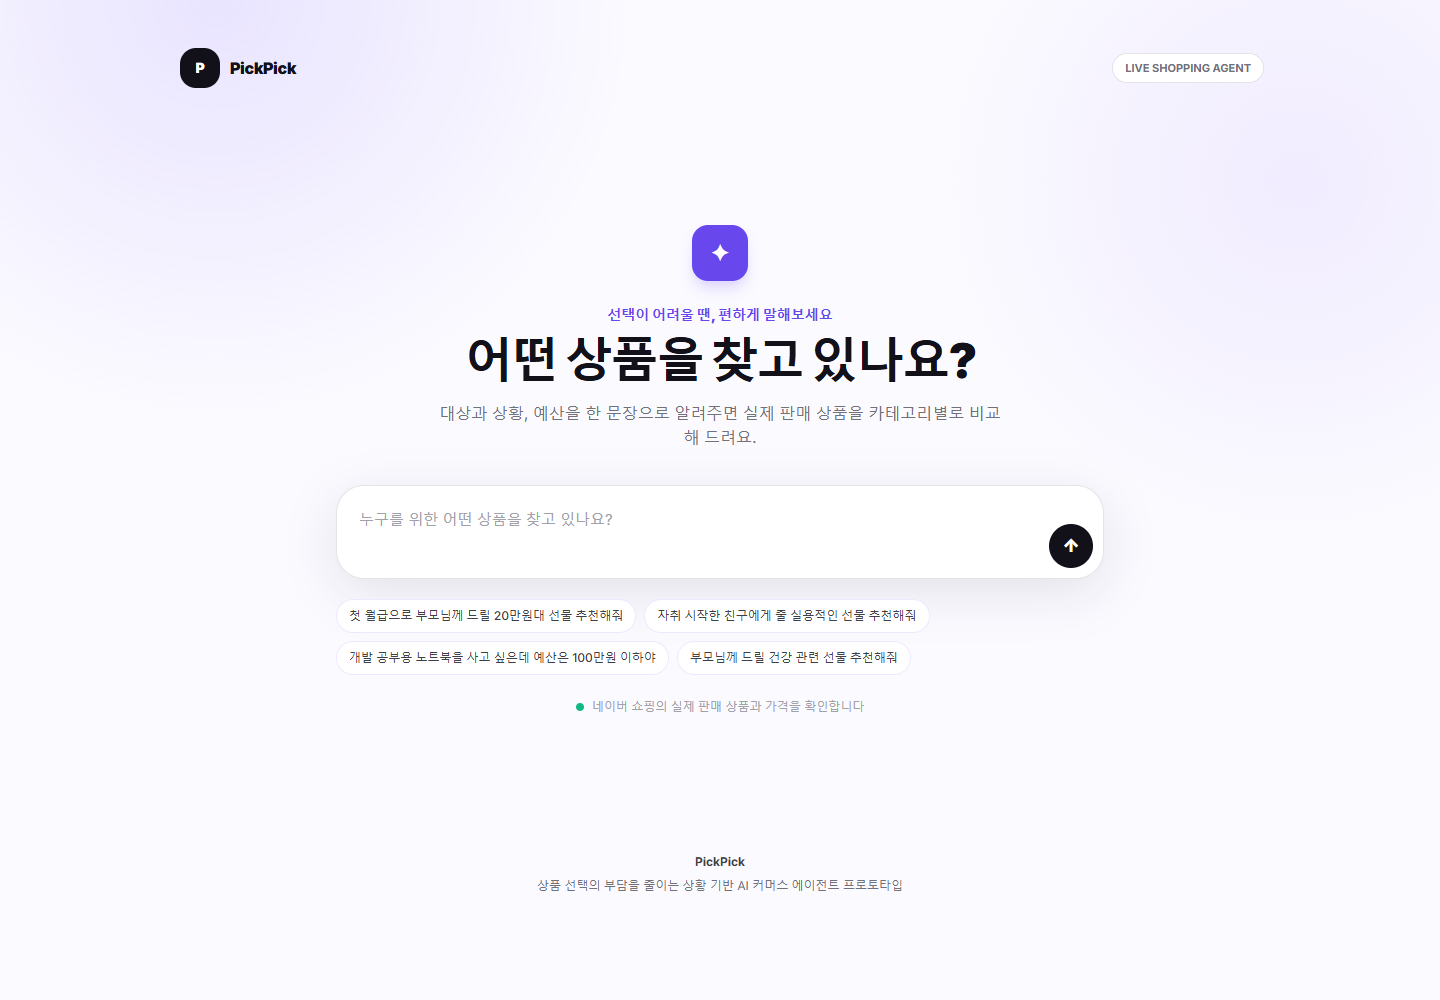
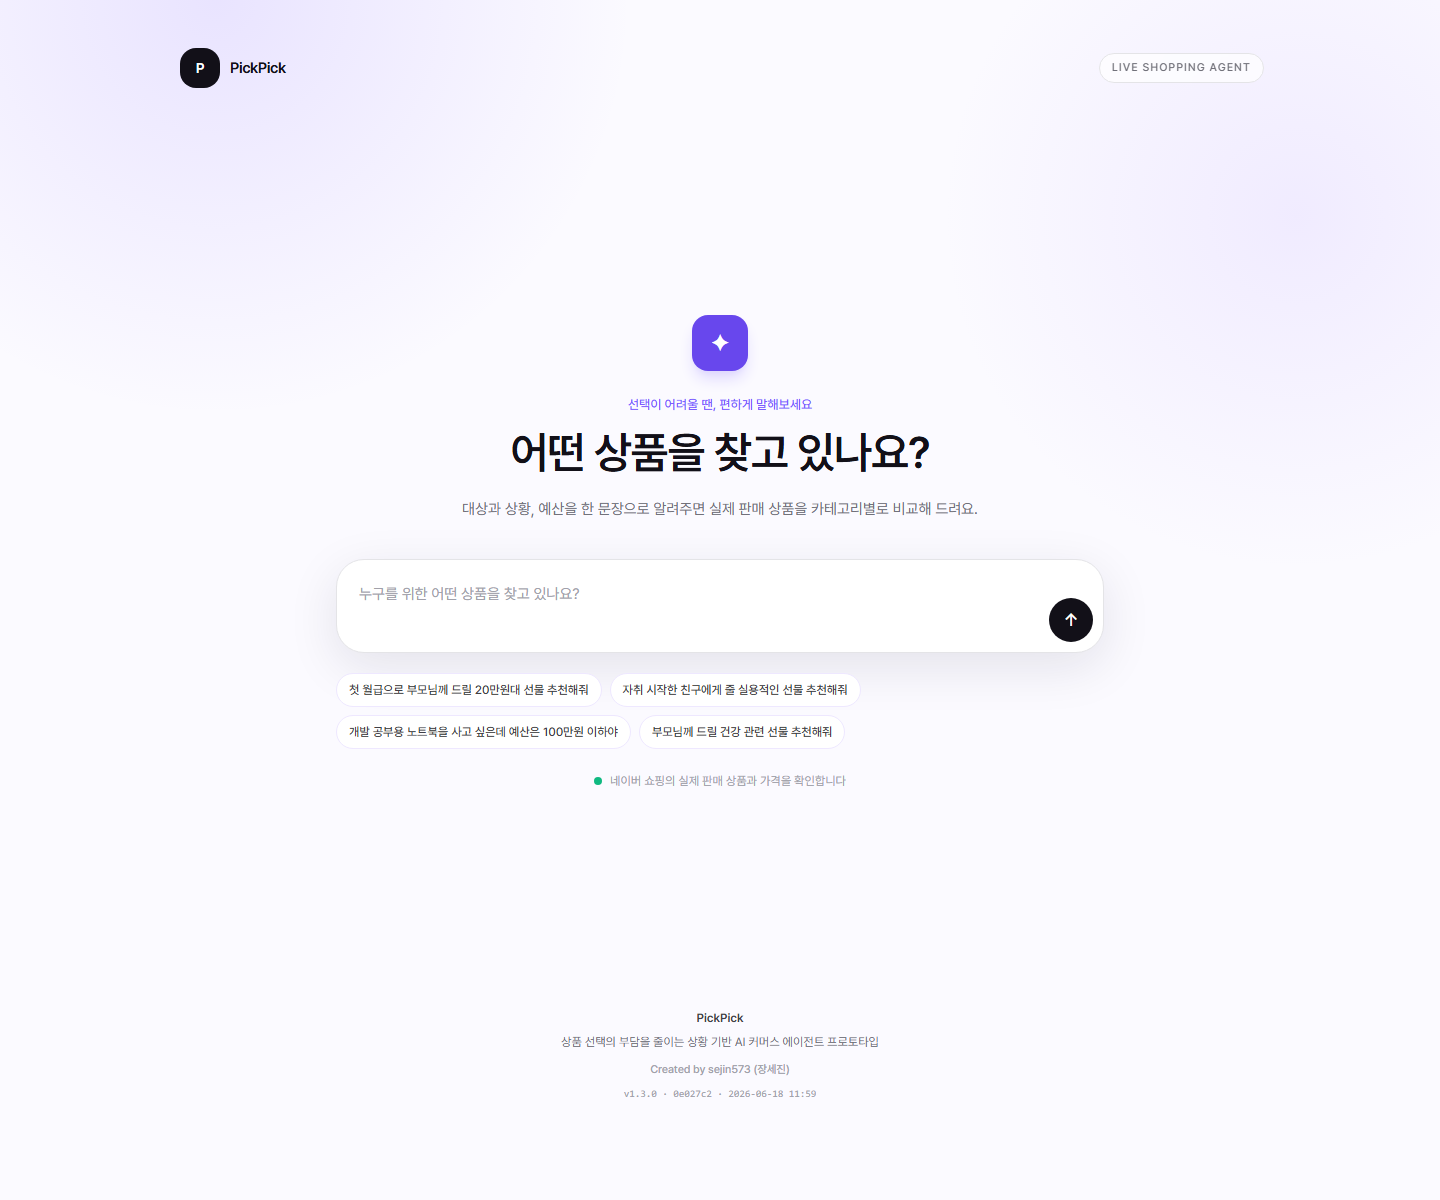
Refresh README screenshots for budget modes

diff --git a/README.md b/README.md
@@ -12,9 +12,17 @@
 
 ![PickPick 메인 화면](docs/images/pickpick-home.png)
 
-### 실제 상품 추천 결과
+### 예산을 지정한 추천 결과
 
-![PickPick 추천 결과 화면](docs/images/pickpick-results.png)
+요청한 `30만원대`를 먼저 보여주고 `20만원대`, `40만원대`를 비교 선택지로 제공합니다.
+
+![PickPick 예산 지정 추천 결과](docs/images/pickpick-results-budget.png)
+
+### 예산을 지정하지 않은 추천 결과
+
+예산이 없으면 `0~30만원`, `30~60만원`, `60~90만원` 범위로 나누어 탐색합니다.
+
+![PickPick 예산 미지정 추천 결과](docs/images/pickpick-results-open-budget.png)
 
 ## 1. 서비스명 및 한 줄 소개
 